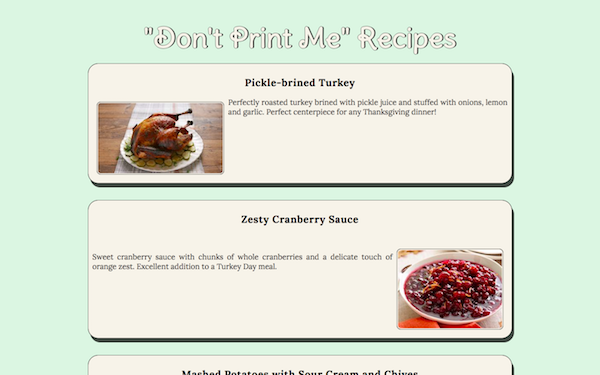
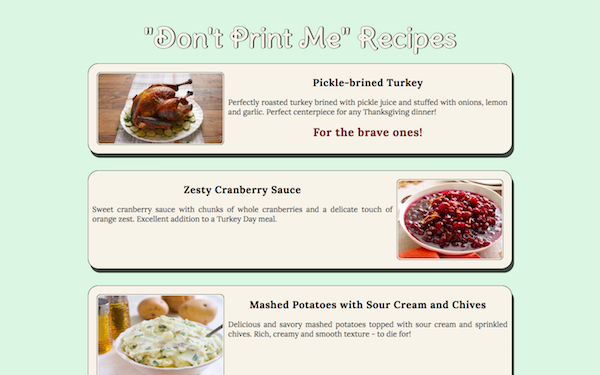
fixed pseudo element text

Changed region(s): [[0.12, 0.176, 0.87, 1.0], [0.51, 0.3227, 0.72, 0.3813]]

diff --git a/index.html b/index.html
@@ -38,8 +38,8 @@
 
             <!-- First recipe, sour -->
             <div class="recipe sour">
-                <h2 class="recipeTitle">Pickle-brined Turkey</h2>
                 <img src="assets/images/turkey.jpg" id="turkeyPic" alt="Pickle-brined turkey">
+                <h2 class="recipeTitle">Pickle-brined Turkey</h2>
                 <p>Perfectly roasted turkey brined with pickle juice and stuffed with onions, lemon and garlic. Perfect centerpiece
                     for any Thanksgiving dinner!
                 </p>
@@ -47,22 +47,22 @@
 
             <!-- Second recipe, sweet -->
             <div class="recipe sweet">
-                <h2 class="recipeTitle">Zesty Cranberry Sauce</h2>
                 <img src="assets/images/cranberry.jpeg" id="cranberrySauce" alt="Cranberry sauce">
+                <h2 class="recipeTitle">Zesty Cranberry Sauce</h2>
                 <p>Sweet cranberry sauce with chunks of whole cranberries and a delicate touch of orange zest. Excellent addition to a Turkey Day meal.</p>
             </div>
 
             <!-- Third recipe, sour -->
             <div class="recipe sour">
-                <h2 class="recipeTitle">Mashed Potatoes with Sour Cream and Chives</h2>
                 <img src="assets/images/mashedpotato.jpg" id="mashedPic" alt="Mashed potatoes">
+                <h2 class="recipeTitle">Mashed Potatoes with Sour Cream and Chives</h2>
                 <p>Delicious and savory mashed potatoes topped with sour cream and sprinkled chives.  Rich, creamy and smooth texture - to die for!</p>
             </div>
 
             <!-- Fourth recipe, sweet -->
             <div class="recipe sweet">
-                <h2 class="recipeTitle">Home-Baked Pumpkin Pie</h2>
                 <img src="assets/images/pumpkinpie.jpg" id="pumpkinPie" alt="Pumpkin pie">
+                <h2 class="recipeTitle">Home-Baked Pumpkin Pie</h2>
                 <p>Homemade pumpkin pie exploding with spicy flavors of cinnamon and nutmeg, topped with whipped cream.  Perfect dessert to finish off any Thanksgiving meal.</p>
             </div>
         </article>

diff --git a/assets/css/style.css b/assets/css/style.css
@@ -95,10 +95,10 @@ img:hover {
     font-size: 27px;
     font-weight: 800;
     letter-spacing: 1px;
-    vertical-align: middle;
+    display: block;
     text-align: center;
-    align-items: center;
-    justify-content: center;
+    margin-top: 20px;
+    margin-bottom: 20px;
 }
 
 .sweet:hover::before {
@@ -108,5 +108,8 @@ img:hover {
     font-size: 20px;
     font-weight: 800;
     letter-spacing: 1px;
+    display: block;
     text-align: right;
+    margin-top: 20px;
+    margin-bottom: 20px;
 }
